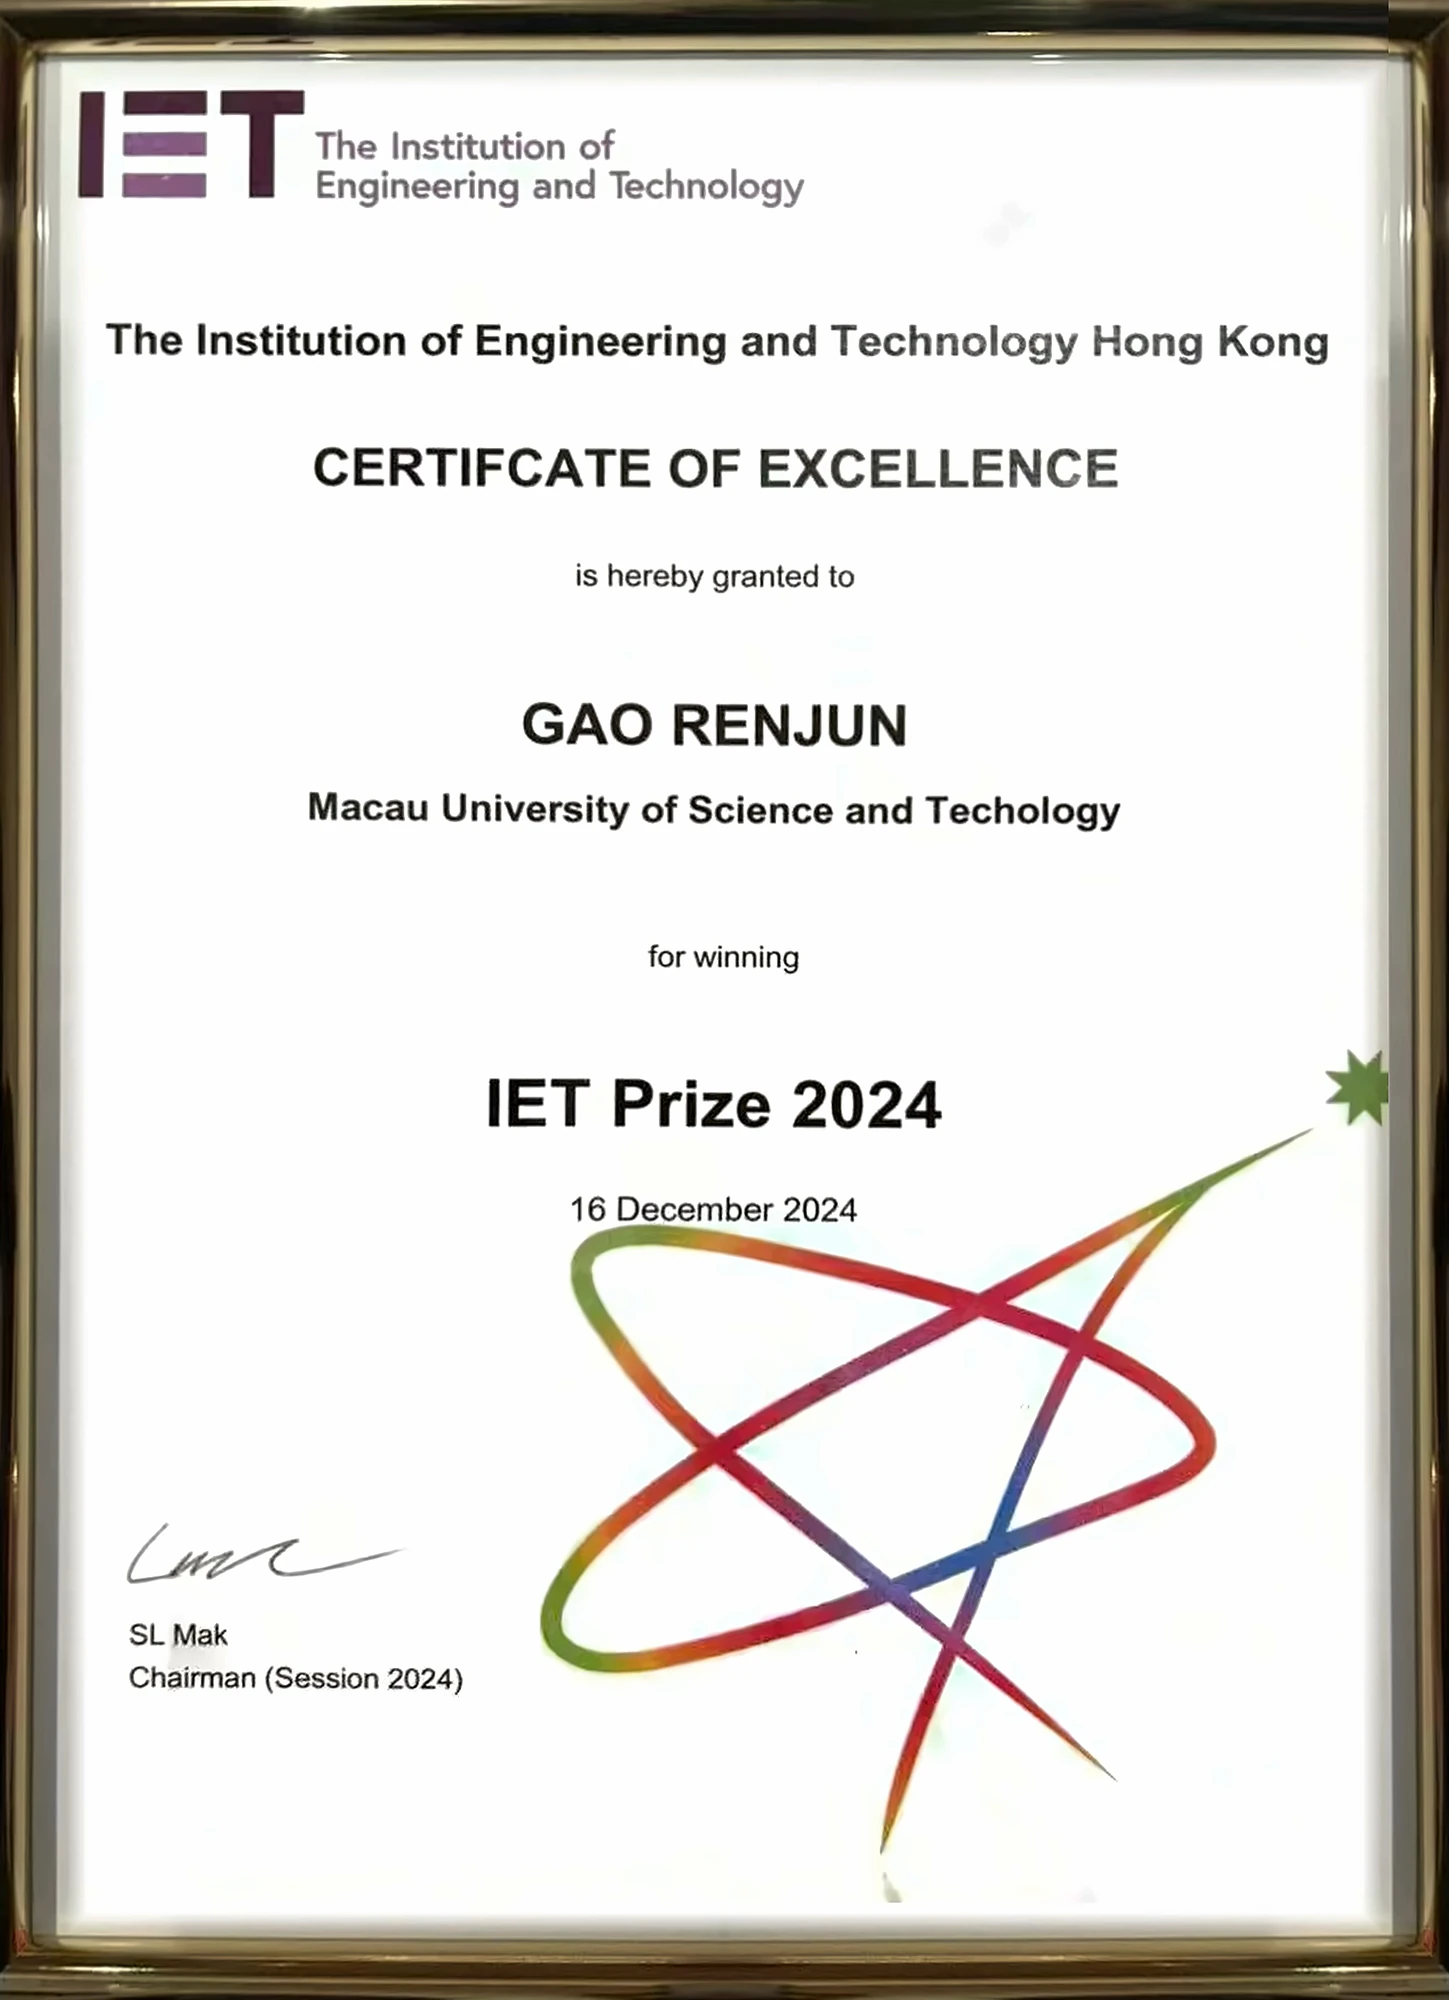
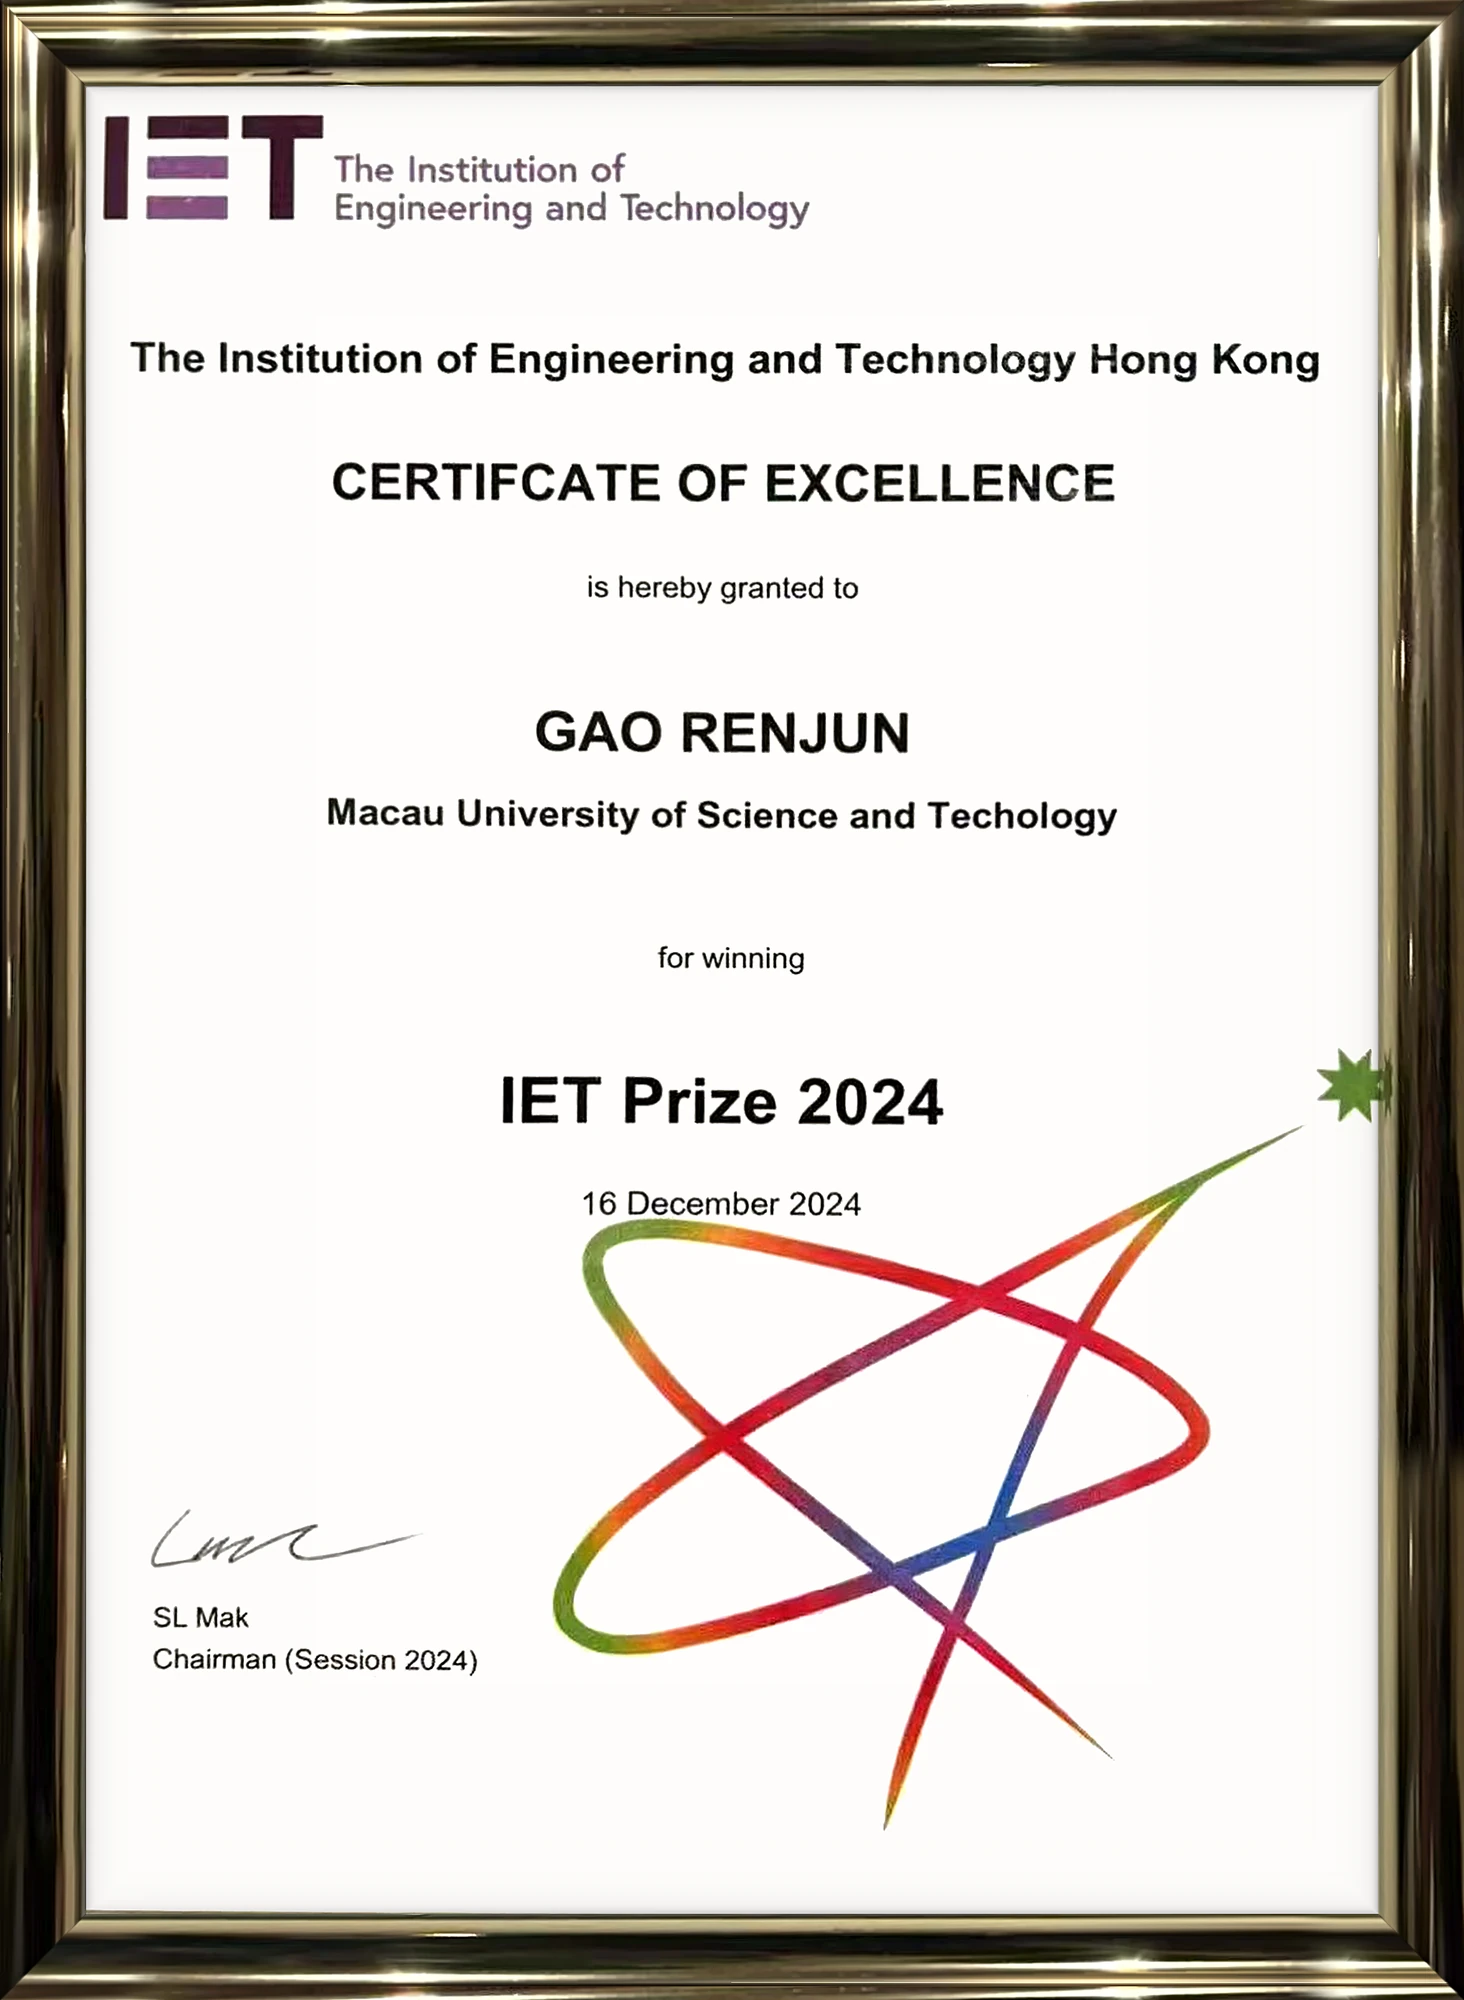
content: rebuilt IET certificate frame

diff --git a/src/content/site.ts b/src/content/site.ts
@@ -304,7 +304,7 @@ export const site = {
       ] },
     { id: "iet-prize", title: "IET Prize", venue: "IET Hong Kong, 2024", fit: "contain",
       images: [
-        { thumb: "/media/honors/iet-prize-1.thumb.webp", full: "/media/honors/iet-prize-1.full.webp", width: 1449, height: 2000, alt: "IET Prize 2024 certificate of excellence" },
+        { thumb: "/media/honors/iet-prize-1.thumb.webp", full: "/media/honors/iet-prize-1.full.webp", width: 1464, height: 2000, alt: "IET Prize 2024 certificate of excellence" },
         { thumb: "/media/honors/iet-prize-2.thumb.webp", full: "/media/honors/iet-prize-2.full.webp", width: 1440, height: 1080, alt: "Receiving the IET Prize at the IET Hong Kong ceremony", fit: "cover" },
         { thumb: "/media/honors/iet-prize-3.thumb.webp", full: "/media/honors/iet-prize-3.full.webp", width: 1704, height: 1278, alt: "With fellow awardees at the IET Hong Kong dinner", fit: "cover" }
       ] },
